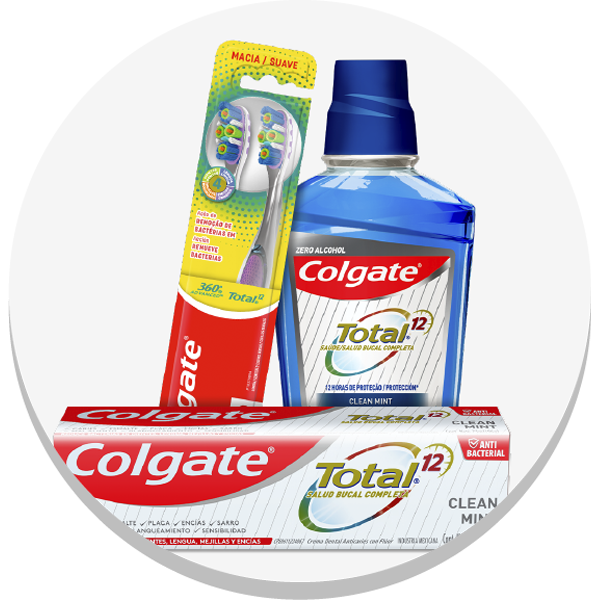
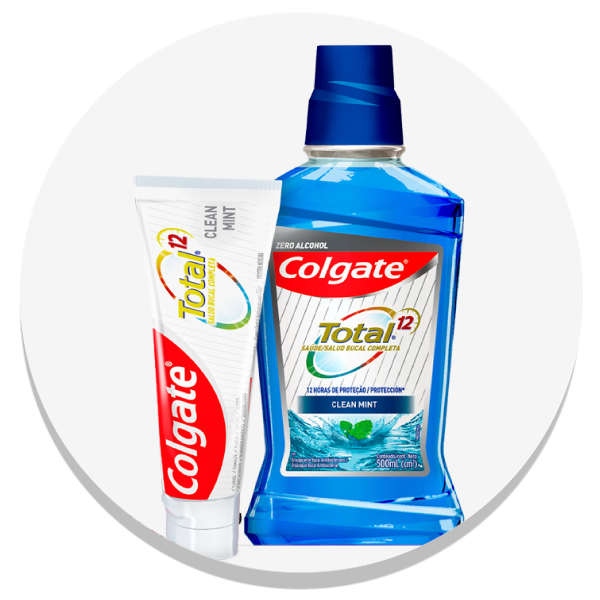
Avance

diff --git a/src/Constants/Productos.js b/src/Constants/Productos.js
@@ -100,26 +100,26 @@ export const Multibeneficios = {
       extra: "* Hasta 12h de protección contra las bacterias y el mal aliento con el uso continuo por 4 semanas",
       productos: []
     },
-    {
-      id: 5,
-      tipo: "producto",
-      img: imgMultibeneficios.producto.prodMultibeneficios_05,
-      tituloSuperior: "Colgate 360°",
-      prefijo: "",
-      nombre: "ADVANCED TOTAL 12",
-      sufijo: "",
-      subTitulo: "",
-      informacion: "Limpieza saludable en toda tu boca limpiador de lengua y mejillas con diseño innovador, remueve bacterias en cuatro áreas:",
-      tituloSec: "",
-      beneficios: [
-        { beneficio: "Dientes." },
-        { beneficio: "Lengua." },
-        { beneficio: "Mejillas." },
-        { beneficio: "Encías." },
-      ],
-      extra: "",
-      productos: []
-    },
+    // {
+    //   id: 5,
+    //   tipo: "producto",
+    //   img: imgMultibeneficios.producto.prodMultibeneficios_05,
+    //   tituloSuperior: "Colgate 360°",
+    //   prefijo: "",
+    //   nombre: "ADVANCED TOTAL 12",
+    //   sufijo: "",
+    //   subTitulo: "",
+    //   informacion: "Limpieza saludable en toda tu boca limpiador de lengua y mejillas con diseño innovador, remueve bacterias en cuatro áreas:",
+    //   tituloSec: "",
+    //   beneficios: [
+    //     { beneficio: "Dientes." },
+    //     { beneficio: "Lengua." },
+    //     { beneficio: "Mejillas." },
+    //     { beneficio: "Encías." },
+    //   ],
+    //   extra: "",
+    //   productos: []
+    // },
     {
       id: 6,
       tipo: "producto",

diff --git a/src/Constants/Images.js b/src/Constants/Images.js
@@ -48,7 +48,7 @@ import btnMultibeneficios_03 from '../img/Productos/Multibeneficios/btnMultibene
 import prodMultibeneficios_03 from '../img/Productos/Multibeneficios/multibeneficios_07.png';
 import btnMultibeneficios_04 from '../img/Productos/Multibeneficios/btnMultibeneficios_06.jpg';
 import prodMultibeneficios_04 from '../img/Productos/Multibeneficios/multibeneficios_06.png';
-import btnMultibeneficios_05 from '../img/Productos/Multibeneficios/btnMultibeneficios_05.jpg';
+// import btnMultibeneficios_05 from '../img/Productos/Multibeneficios/btnMultibeneficios_05.jpg';
 import prodMultibeneficios_05 from '../img/Productos/Multibeneficios/multibeneficios_05.png';
 import btnMultibeneficios_06 from '../img/Productos/Multibeneficios/btnMultibeneficios_04.jpg';
 import prodMultibeneficios_06 from '../img/Productos/Multibeneficios/multibeneficios_04.png';
@@ -239,7 +239,7 @@ export const imgMultibeneficios = {
         { "btn": btnMultibeneficios_02 },
         { "btn": btnMultibeneficios_03 },
         { "btn": btnMultibeneficios_04 },
-        { "btn": btnMultibeneficios_05 },
+        // { "btn": btnMultibeneficios_05 },
         { "btn": btnMultibeneficios_06 },
         { "btn": btnMultibeneficios_07 },
         { "btn": btnMultibeneficios_08 },
